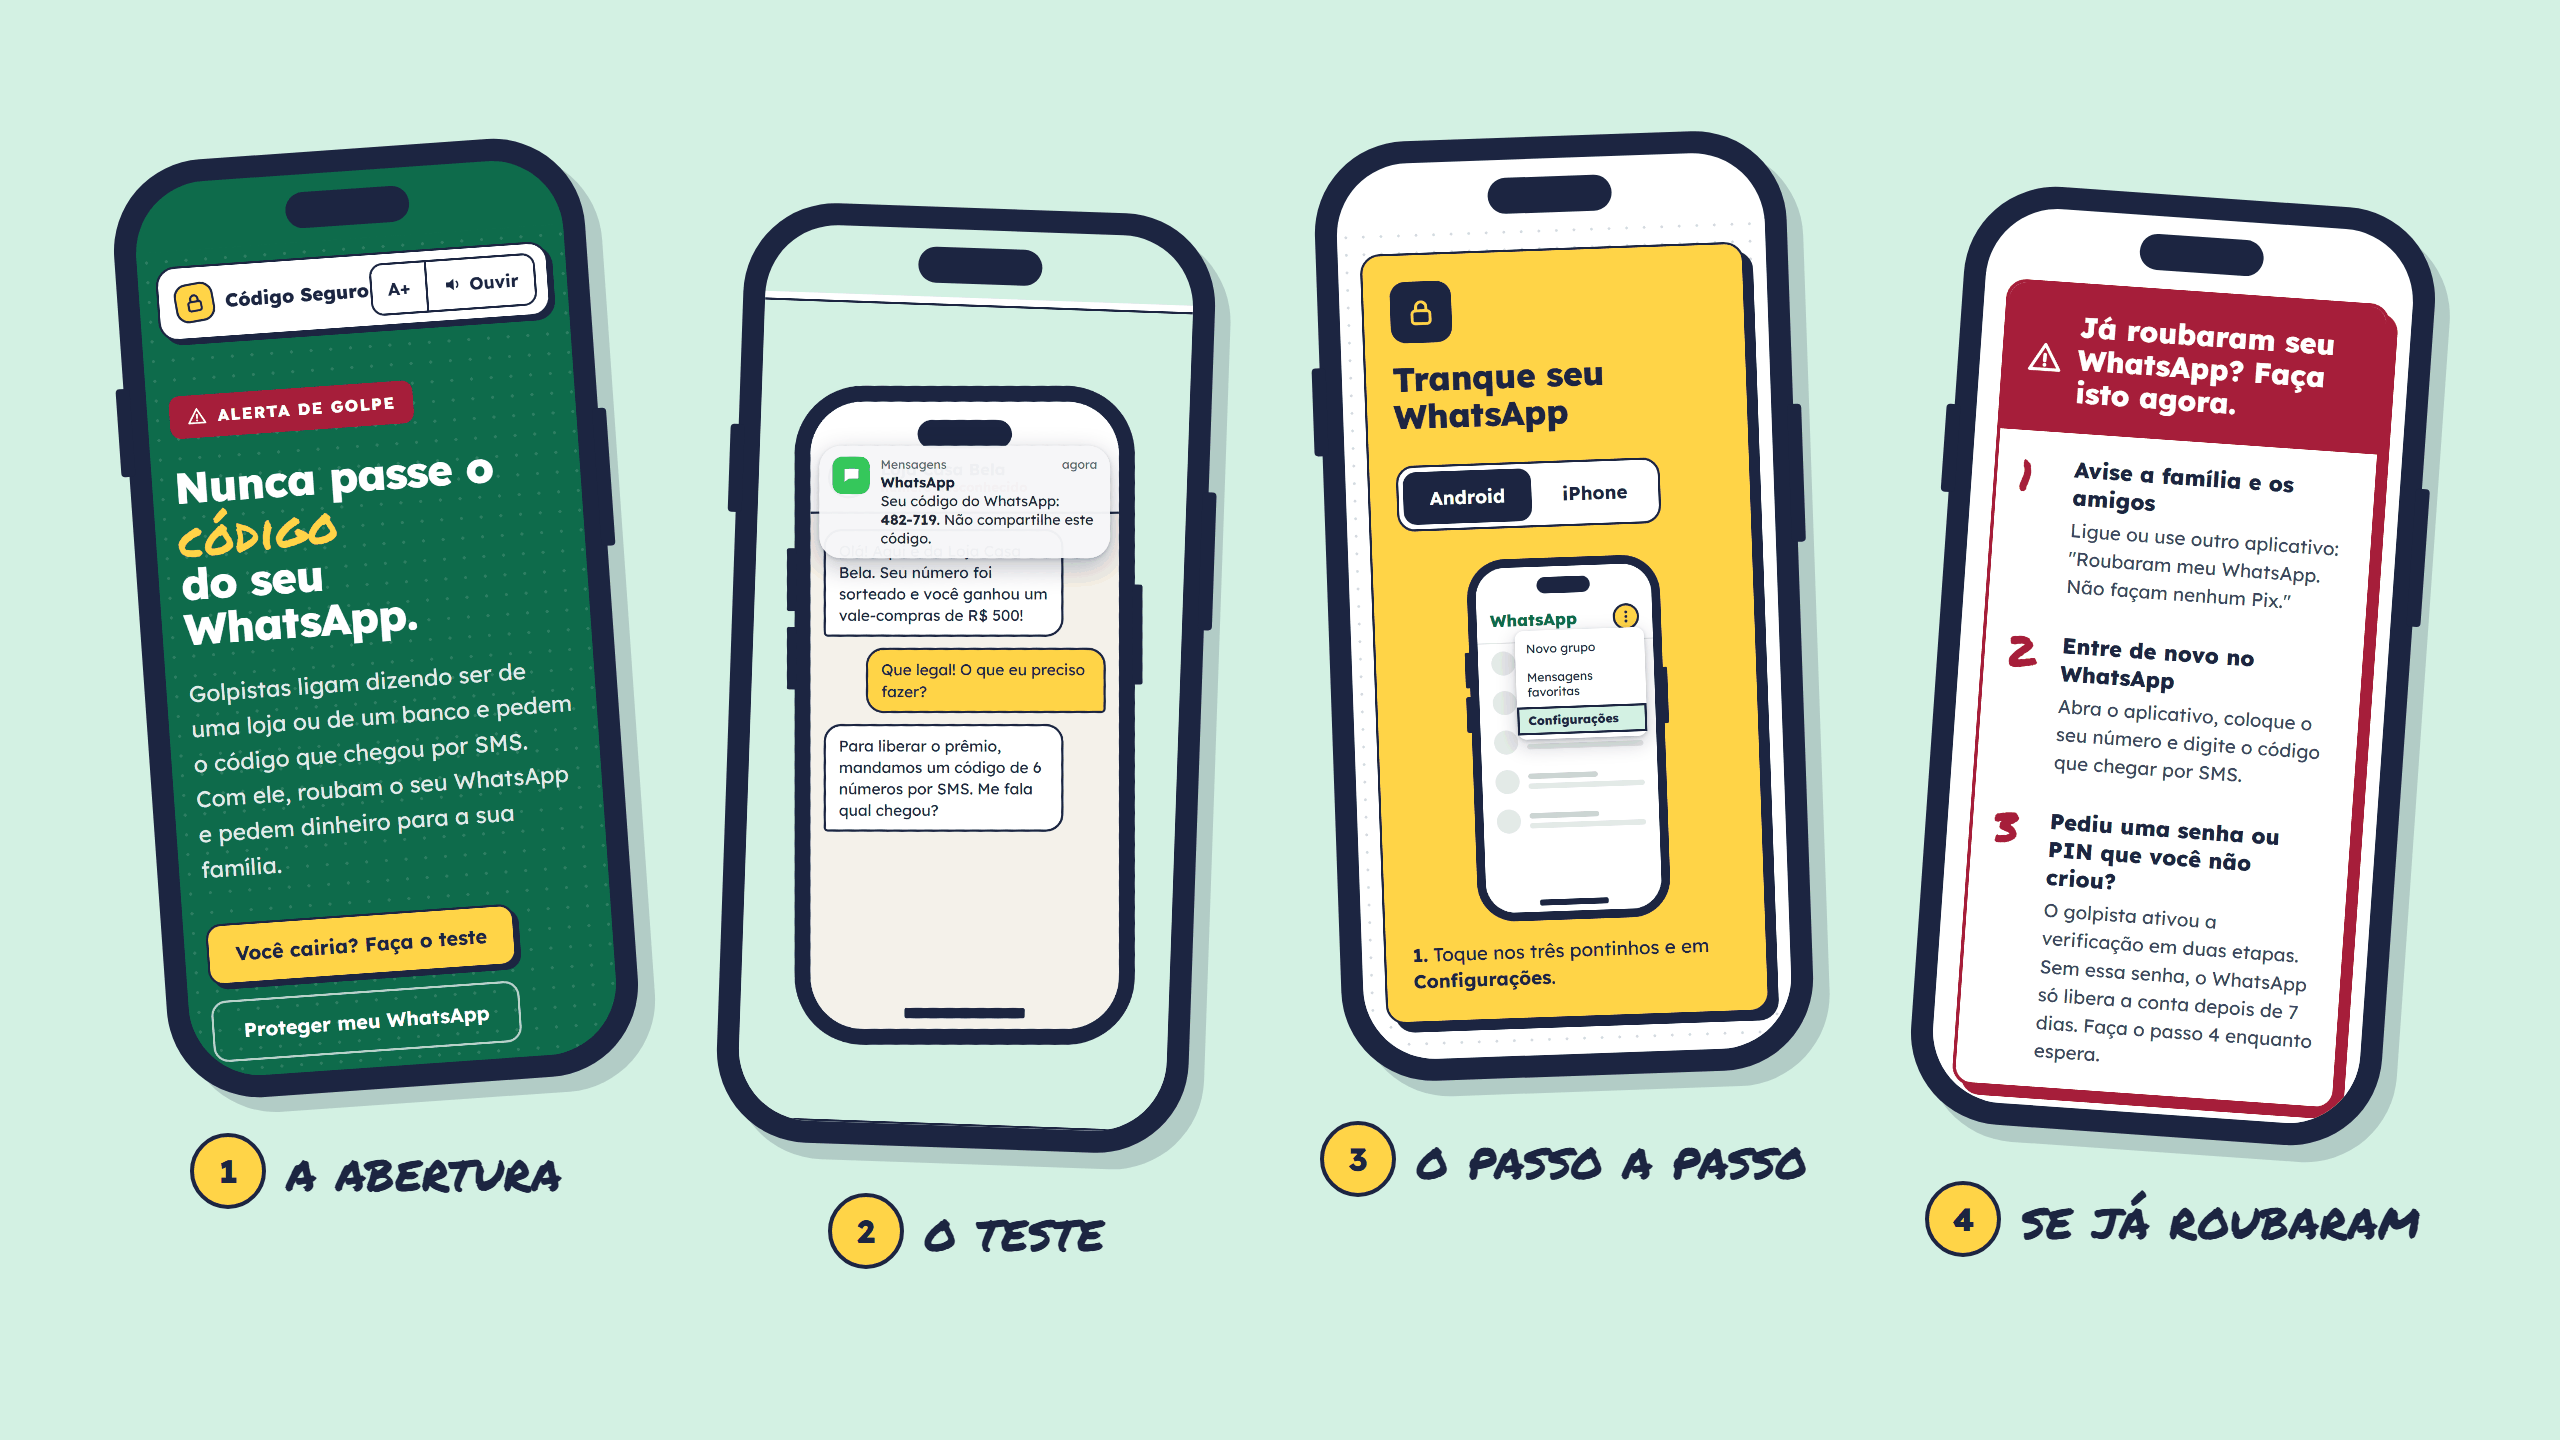
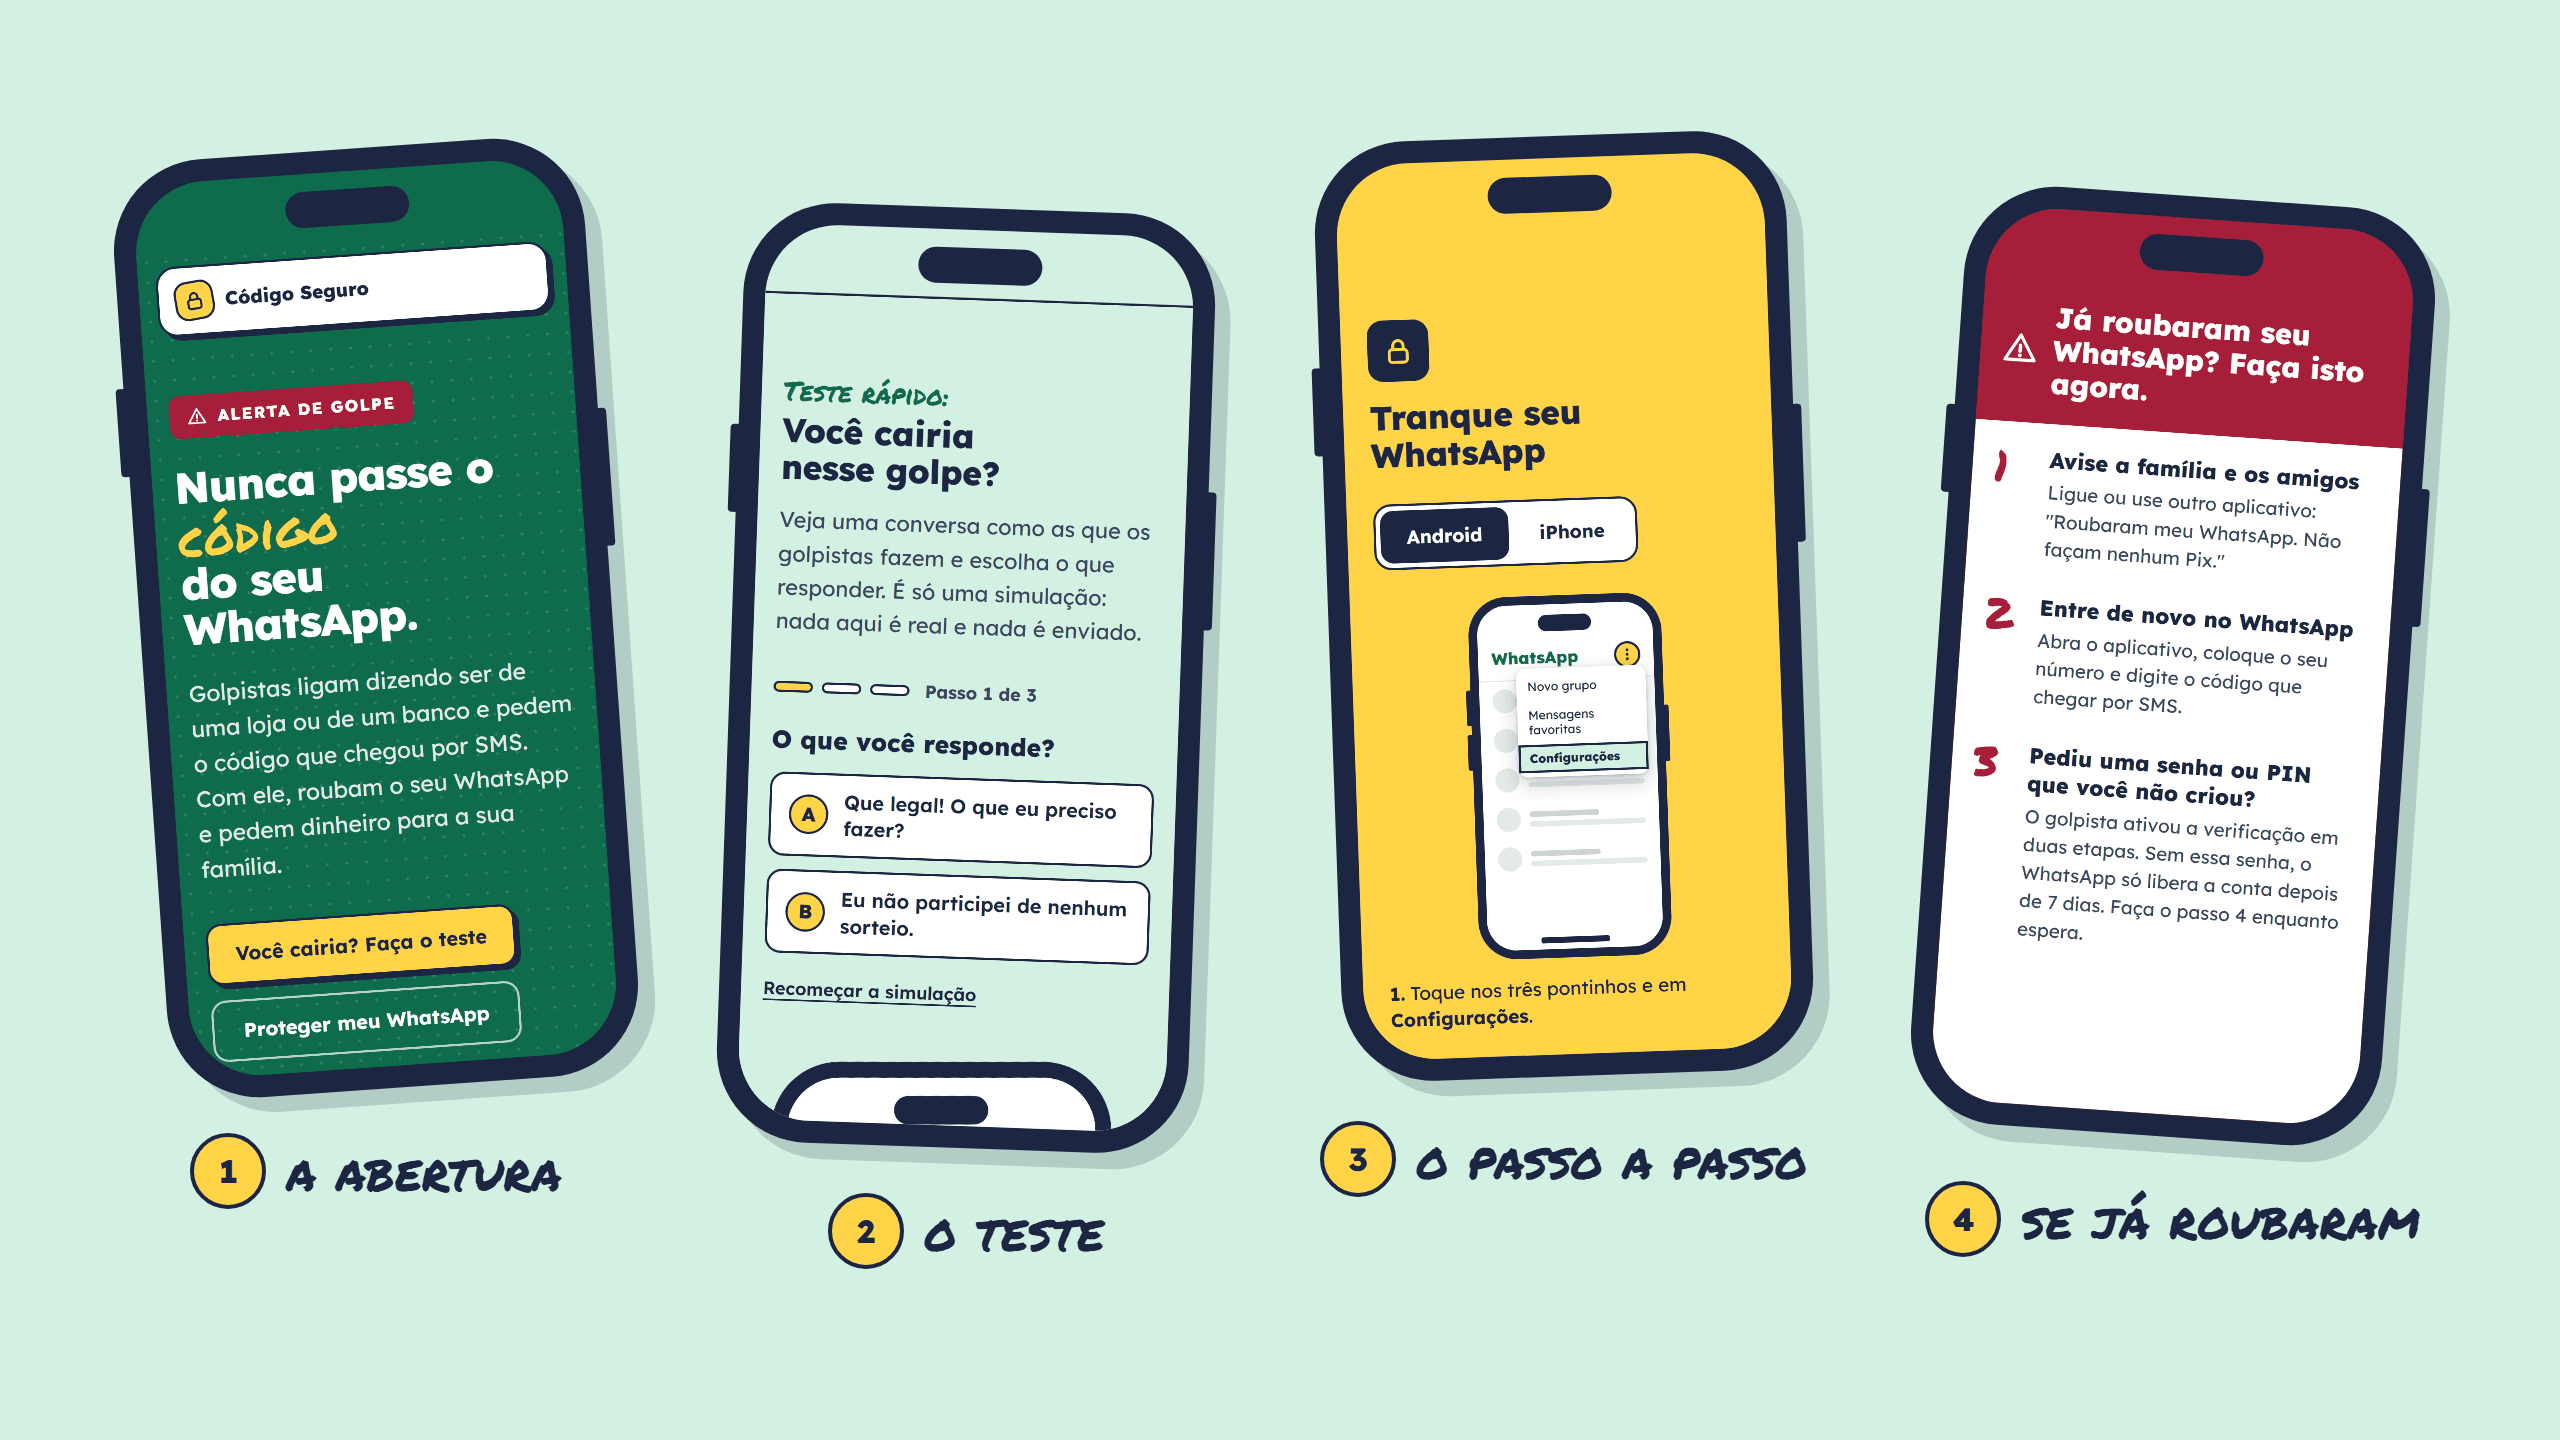
docs(readme): use full-screen site captures in the showcase

diff --git a/src/components/Footer.tsx b/src/components/Footer.tsx
@@ -5,7 +5,7 @@ export function Footer() {
         <div className="site-footer__inner">
           <div className="site-footer__credits">
             <strong>Engenharia de Software · 8B Noturno · 2026</strong>
-            <span>Mauro Junior e Pablo de Souza</span>
+            <span>Mauro Junior, Pablo de Souza, Matheus Henrique e Victor Teixeira</span>
             <span>Universidade de Mogi das Cruzes</span>
           </div>
           <p className="site-footer__privacy">Este site não coleta nenhum dado seu.</p>

diff --git a/README.md b/README.md
@@ -64,5 +64,5 @@ docs/             imagens deste README
 
 ## Quem fez
 
-**[Mauro Junior](https://github.com/mj01px)** e **Pablo de Souza**<br>
+**[Mauro Junior](https://github.com/mj01px)**, **[Pablo de Souza](https://github.com/1pablex)**, **Matheus Henrique** e **Victor Teixeira**<br>
 Engenharia de Software, 8B Noturno · Universidade de Mogi das Cruzes · 2026
